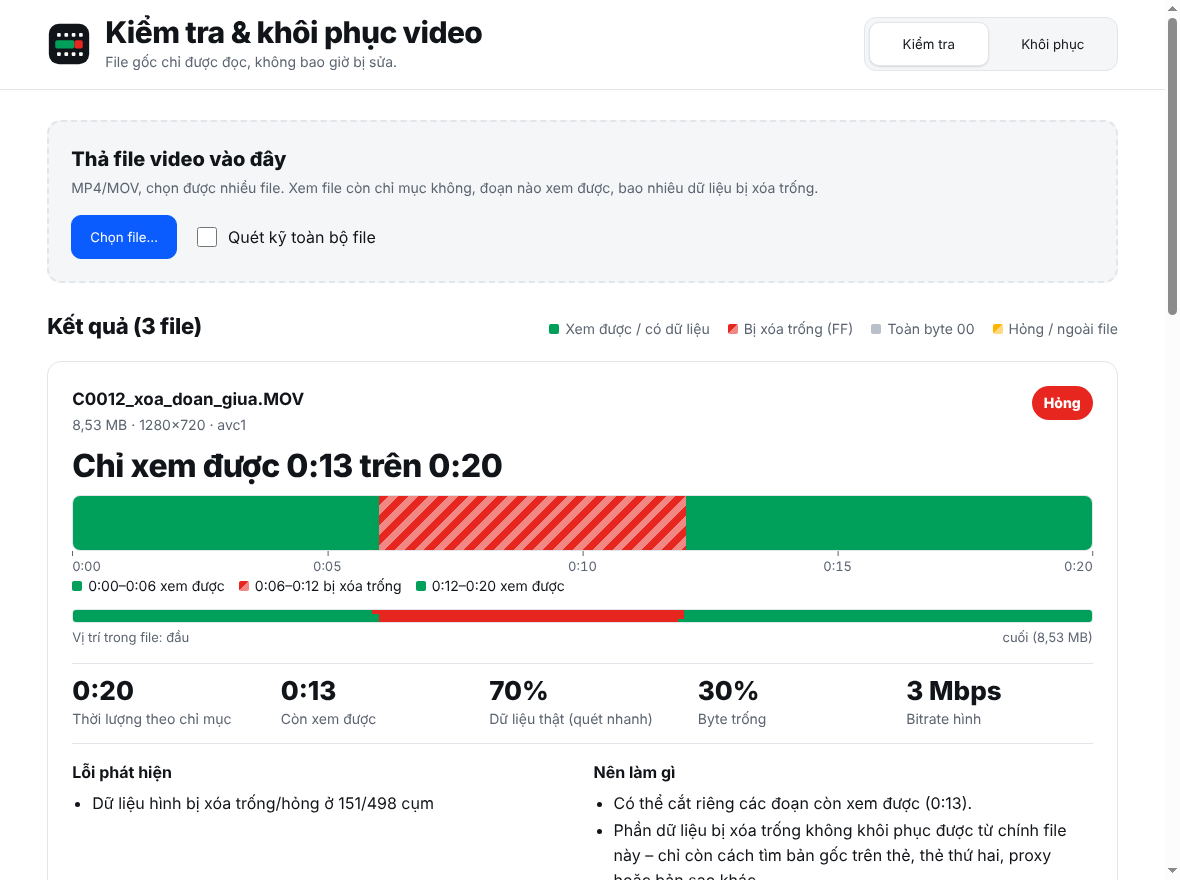
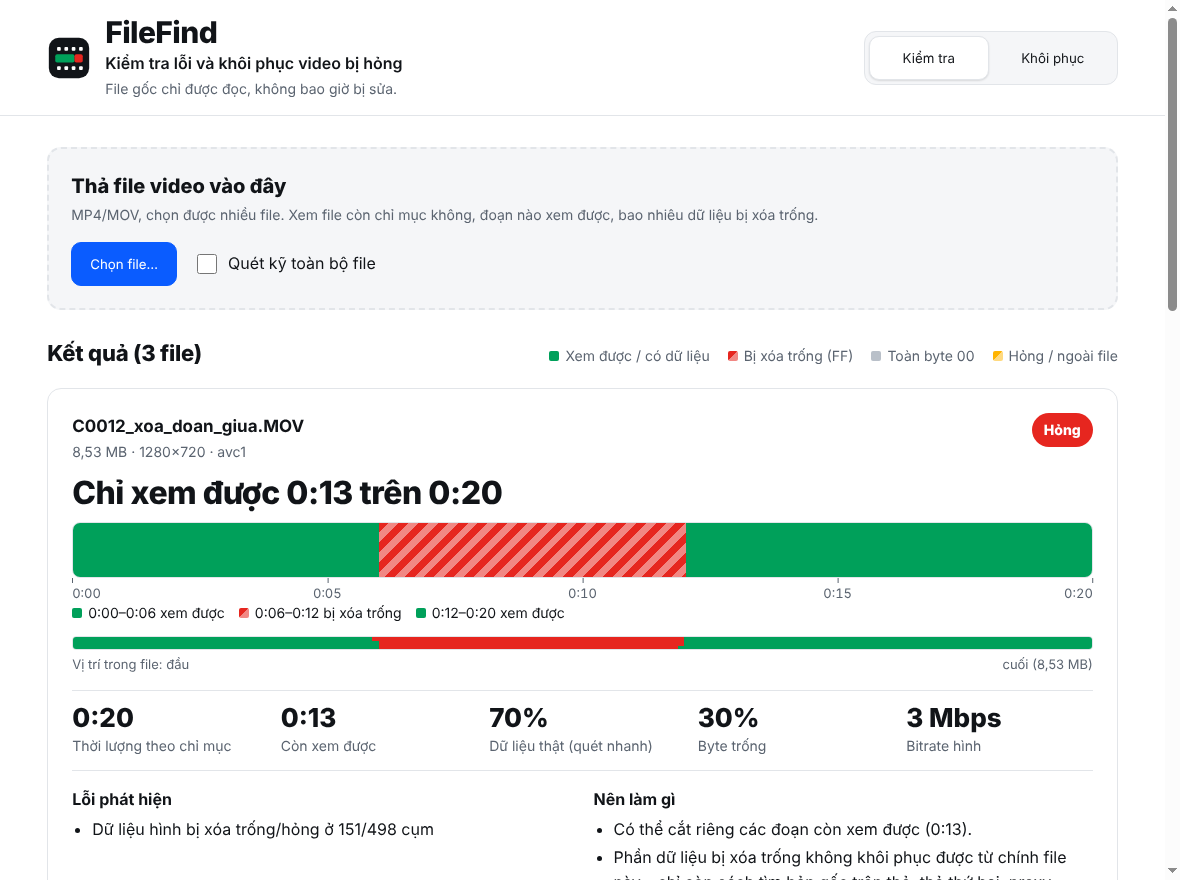
Phiên bản 1.1.0: đổi tên app thành FileFind, thêm phụ đề
FileFind – Kiểm tra lỗi và khôi phục video bị hỏng. Đổi tên file cài đặt,
bundle id, dòng lệnh (cli/filefind.js), README, trang phát hành, ảnh chụp màn hình.

Claude-Session: https://claude.ai/code/session_01D6akRmq6i54mhgxjaacxkn

diff --git a/src/renderer/index.html b/src/renderer/index.html
@@ -4,7 +4,7 @@
 <meta charset="utf-8">
 <meta name="viewport" content="width=device-width, initial-scale=1">
 <meta http-equiv="Content-Security-Policy" content="default-src 'self'; script-src 'self'; style-src 'self' 'unsafe-inline'; img-src 'self' data:">
-<title>Video Check</title>
+<title>FileFind</title>
 <link rel="stylesheet" href="style.css">
 </head>
 <body>
@@ -12,7 +12,7 @@
   <div class="wrap headrow">
     <div class="brand">
       <svg viewBox="0 0 48 48" width="44" height="44" aria-hidden="true"><rect x="2" y="2" width="44" height="44" rx="11" fill="var(--ink)"/><rect x="9" y="20" width="21" height="9" rx="2" fill="var(--ok)"/><rect x="30" y="20" width="9" height="9" rx="2" fill="var(--bad)"/><g fill="var(--bg)"><rect x="11" y="12" width="4" height="4" rx="1"/><rect x="19" y="12" width="4" height="4" rx="1"/><rect x="27" y="12" width="4" height="4" rx="1"/><rect x="35" y="12" width="4" height="4" rx="1"/><rect x="11" y="33" width="4" height="4" rx="1"/><rect x="19" y="33" width="4" height="4" rx="1"/><rect x="27" y="33" width="4" height="4" rx="1"/><rect x="35" y="33" width="4" height="4" rx="1"/></g></svg>
-      <div><h1>Kiểm tra &amp; khôi phục video</h1><p class="small">File gốc chỉ được đọc, không bao giờ bị sửa.</p></div>
+      <div><h1>FileFind</h1><p class="tagline">Kiểm tra lỗi và khôi phục video bị hỏng</p><p class="small">File gốc chỉ được đọc, không bao giờ bị sửa.</p></div>
     </div>
     <nav class="tabs" role="tablist">
       <button role="tab" id="t-check" aria-selected="true" aria-controls="p-check">Kiểm tra</button>
@@ -109,7 +109,7 @@
 
 <footer class="band">
   <div class="wrap row spread">
-    <span class="small" id="ver">Video Check</span>
+    <span class="small" id="ver">FileFind</span>
     <div class="row">
       <span class="small" id="upd-status" role="status"></span>
       <button class="link" id="upd-check">Kiểm tra cập nhật</button>

diff --git a/test/update.test.js b/test/update.test.js
@@ -5,9 +5,9 @@ const u = require("../src/core/update.js");
 
 const SLUG = "hoangviet1108/Repair-file-";
 const REL = {
-  tag_name: "v1.2.0", name: "Video Check v1.2.0", html_url: `https://github.com/${SLUG}/releases/tag/v1.2.0`, body: "ghi chú",
+  tag_name: "v1.2.0", name: "FileFind v1.2.0", html_url: `https://github.com/${SLUG}/releases/tag/v1.2.0`, body: "ghi chú",
   assets: ["mac-arm64.dmg", "mac-arm64.zip", "mac-x64.dmg", "win-x64.exe", "portable.exe"].map(s => ({
-    name: `Video-Check-1.2.0-${s}`, size: 1000, browser_download_url: `https://github.com/${SLUG}/releases/download/v1.2.0/Video-Check-1.2.0-${s}`
+    name: `FileFind-1.2.0-${s}`, size: 1000, browser_download_url: `https://github.com/${SLUG}/releases/download/v1.2.0/FileFind-1.2.0-${s}`
   }))
 };
 
@@ -37,7 +37,7 @@ test("báo có bản mới và chỉ tin đường dẫn của repository", asyn
   assert.equal(info.newer, true);
   assert.equal(info.latest, "1.2.0");
   assert.match(info.download.url, /mac-arm64\.dmg$/);
-  const evil = Object.assign({}, REL, { html_url: "https://evil.example/x", assets: [{ name: "Video-Check-1.2.0-mac-arm64.dmg", browser_download_url: "https://evil.example/a.dmg" }] });
+  const evil = Object.assign({}, REL, { html_url: "https://evil.example/x", assets: [{ name: "FileFind-1.2.0-mac-arm64.dmg", browser_download_url: "https://evil.example/a.dmg" }] });
   const info2 = await u.checkForUpdate({ currentVersion: "1.0.1", slug: SLUG, platform: "darwin", arch: "arm64", fetchJson: async () => evil });
   assert.equal(info2.download, null);
   assert.equal(info2.pageUrl, `https://github.com/${SLUG}/releases/latest`);

diff --git a/cli/filefind.js b/cli/filefind.js
@@ -1,18 +1,18 @@
 #!/usr/bin/env node
 "use strict";
 // Dòng lệnh: kiểm tra / khôi phục file video mà không cần mở app.
-//   node cli/video-check.js check FILE... [--full] [--json]
-//   node cli/video-check.js repair FILE_MAU FILE_HONG [FILE_KET_QUA] [--dry-run] [--dump-moov FILE] [--max-chunks N]
+//   node cli/filefind.js check FILE... [--full] [--json]
+//   node cli/filefind.js repair FILE_MAU FILE_HONG [FILE_KET_QUA] [--dry-run] [--dump-moov FILE] [--max-chunks N]
 const fs = require("fs");
 const Analyzer = require("../src/core/analyzer.js");
 const { repair, defaultOutName, RepairError } = require("../src/core/repair.js");
 
 const HELP = `Cách dùng:
-  video-check check FILE... [--full] [--json]
+  filefind check FILE... [--full] [--json]
       Kiểm tra file MP4/MOV: chỉ mục, đoạn xem được, vùng byte trống.
       --full  quét từng byte (chậm hơn, chính xác hơn)
 
-  video-check repair FILE_MAU FILE_HONG [FILE_KET_QUA] [--dry-run] [--max-chunks N]
+  filefind repair FILE_MAU FILE_HONG [FILE_KET_QUA] [--dry-run] [--max-chunks N]
       Dựng lại chỉ mục cho file Sony XAVC bị mất chỉ mục.
       FILE_MAU: file tốt quay cùng máy, cùng cài đặt. FILE_HONG chỉ được đọc.
       --dry-run  chỉ quét và báo kết quả, không ghi file`;

diff --git a/src/renderer/renderer.js b/src/renderer/renderer.js
@@ -273,7 +273,7 @@ api.onOpenFiles((paths) => { showTab("check"); addPaths(paths); });
 let upd = null;
 function showUpdate(info) {
   upd = info;
-  $("#upd-title").textContent = `Có bản mới: Video Check ${info.latest}`;
+  $("#upd-title").textContent = `Có bản mới: FileFind ${info.latest}`;
   $("#upd-sub").textContent = `Bạn đang dùng bản ${info.current}.` +
     (info.download ? ` File cho máy này: ${info.download.name} (${fmtB(info.download.size || 0)}). Tải về rồi cài đè lên bản cũ.` : " Mở trang phát hành để tải bản phù hợp.");
   $("#upd").hidden = false;
@@ -294,7 +294,7 @@ $("#upd-check").addEventListener("click", async () => {
 api.updateSettings().then((s) => { $("#upd-auto").checked = s.autoCheck; });
 $("#upd-auto").addEventListener("change", (e) => api.updateSettings({ autoCheck: e.target.checked }));
 setTimeout(() => api.updateCheck({ manual: false }).then((i) => { if (i && i.newer) showUpdate(i); }), 2500);
-api.info().then((i) => { $("#ver").textContent = `Video Check ${i.version} · mã nguồn mở, giấy phép MIT`; });
+api.info().then((i) => { $("#ver").textContent = `FileFind ${i.version} · mã nguồn mở, giấy phép MIT`; });
 render();
 setRep("ref", null);
 }

diff --git a/src/main.js b/src/main.js
@@ -16,7 +16,7 @@ let seq = 0;
 function createWindow() {
   win = new BrowserWindow({
     width: 1180, height: 880, minWidth: 720, minHeight: 560,
-    title: "Video Check",
+    title: "FileFind",
     backgroundColor: nativeTheme.shouldUseDarkColors ? "#0e1116" : "#ffffff",
     webPreferences: {
       preload: path.join(__dirname, "preload.js"),
@@ -135,7 +135,7 @@ async function fetchJson(url) {
   const ctrl = new AbortController();
   const timer = setTimeout(() => ctrl.abort(), 10000);
   try {
-    const res = await net.fetch(url, { signal: ctrl.signal, headers: { Accept: "application/vnd.github+json", "User-Agent": `VideoCheck/${app.getVersion()}` } });
+    const res = await net.fetch(url, { signal: ctrl.signal, headers: { Accept: "application/vnd.github+json", "User-Agent": `FileFind/${app.getVersion()}` } });
     if (res.status === 404) throw new Error("Chưa có bản phát hành nào trên GitHub.");
     if (!res.ok) throw new Error(`GitHub trả lỗi ${res.status}.`);
     return await res.json();

diff --git a/src/renderer/style.css b/src/renderer/style.css
@@ -18,6 +18,7 @@ h1{font-weight:800;font-size:clamp(22px,2.6vw,30px);line-height:1.1;letter-spaci
 h2{font-size:22px;margin:0 0 6px;font-weight:800;letter-spacing:-.01em}
 h3{margin:0 0 8px;font-size:18px}
 .small{font-size:14px;color:var(--mute);margin:2px 0 0}
+.tagline{margin:2px 0 0;font-size:16px;font-weight:600}
 .tabs{display:flex;background:var(--panel);border:1px solid var(--line);border-radius:12px;padding:4px;gap:4px}
 .tabs button{border:0;background:transparent;min-width:120px}
 .tabs button[aria-selected=true]{background:var(--bg);box-shadow:0 1px 2px rgba(0,0,0,.12);border:1px solid var(--line)}

diff --git a/test/fixtures.js b/test/fixtures.js
@@ -105,6 +105,6 @@ function brokenFile(nChunks, seed, destroy = []) {
   return { buf, chunks: s.chunks.filter((_, i) => !destroy.includes(i)) };
 }
 
-function tmpDir() { return fs.mkdtempSync(path.join(os.tmpdir(), "video-check-test-")); }
+function tmpDir() { return fs.mkdtempSync(path.join(os.tmpdir(), "filefind-test-")); }
 
 module.exports = { goodFile, brokenFile, tmpDir, FR, AU_LEN, DATA_START };
